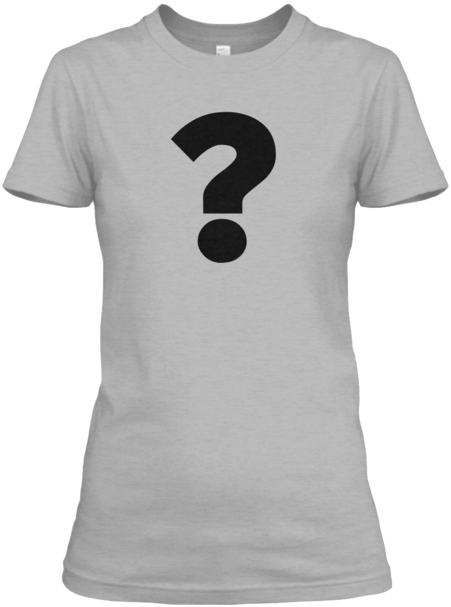
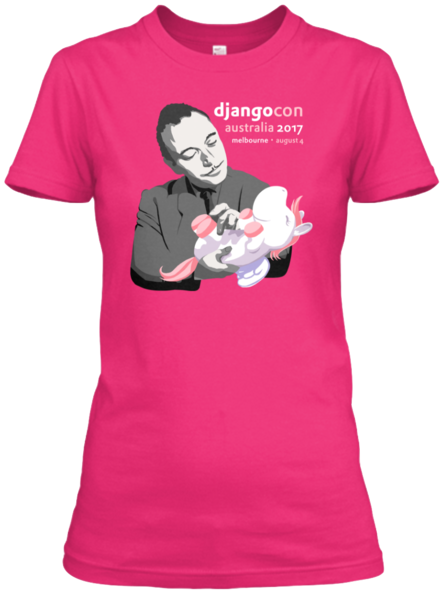
Updates for shirt reveal. DO NOT MERGE TIL DCAU17

diff --git a/index.html b/index.html
@@ -23,8 +23,6 @@
   </p>
   <p>This is your chance to fill or refresh your wardrobe with djangocon merch!</p>
   <p>The merch will be available until August 25 2017</p> 
-  <p>What about the 2017 Design? That'll be revealed in the opening of the conference, so 
-you should be there! <a href="https://pycon-au.org/attend/">Tickets are on sale now</a>
   <p>Click on a design to go to the Teespring campaign</p>
   <p>All profits (approx $7-8 per shirt) go to the <a href="https://www.djangoproject.com/foundation/" target="_blank">DSF</a> to fund travel grants, 
   development sprints, conference sponsorships, and the DSF Fellow.
@@ -60,7 +58,7 @@ you should be there! <a href="https://pycon-au.org/attend/">Tickets are on sale 
 </div>
 </a>
 
-<a href="#" target="_blank">
+<a href="https://teespring.com/shop/dcau17" name="17" target="_blank">
 <div class="parent" style="background-image: url('img/17_bg.png'); background-repeat: repeat">
     <img class="logo" src="img/17_logo.png">
     <img class="shirt" src="img/17_shirt.png">
